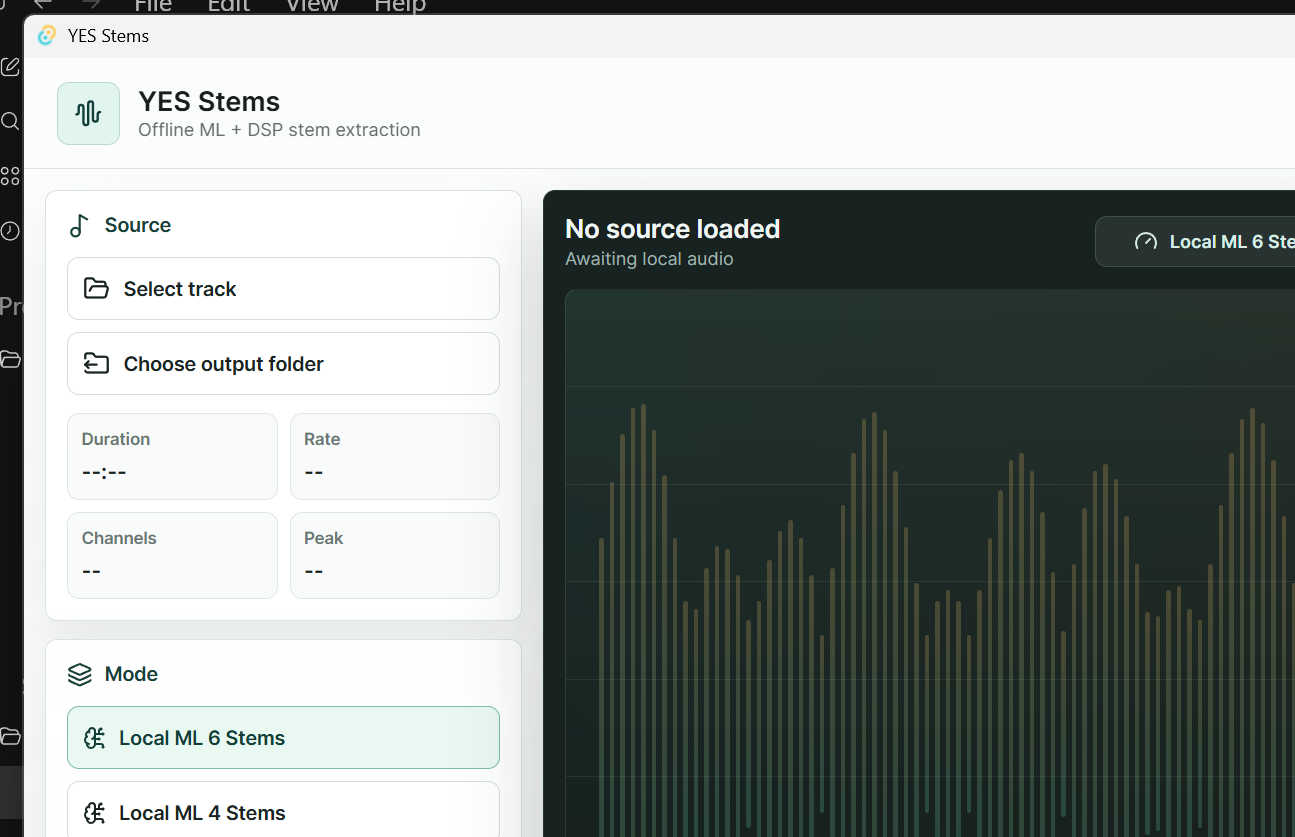
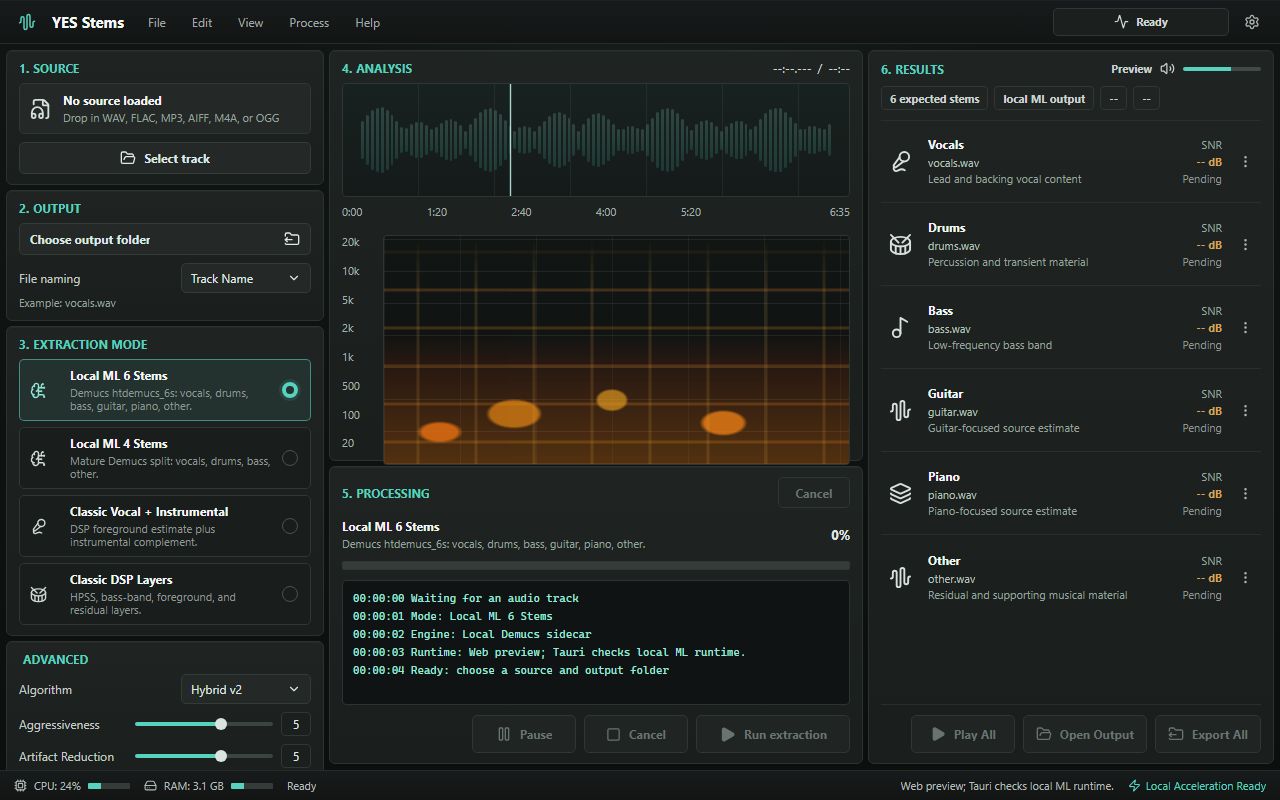
docs: refresh app screenshot

diff --git a/src/App.css b/src/App.css
@@ -173,8 +173,8 @@ p {
   min-height: 0;
   display: grid;
   grid-template-columns: 318px minmax(500px, 1fr) 406px;
-  gap: 6px;
-  padding: 7px;
+  gap: 5px;
+  padding: 6px;
 }
 
 .rack,
@@ -183,7 +183,7 @@ p {
   min-height: 0;
   display: flex;
   flex-direction: column;
-  gap: 6px;
+  gap: 5px;
 }
 
 .module {
@@ -203,7 +203,25 @@ p {
 .advanced-module,
 .results-module,
 .processing-module {
-  padding: 12px;
+  padding: 10px 12px;
+}
+
+.source-module {
+  flex: 0 0 126px;
+}
+
+.output-module {
+  flex: 0 0 116px;
+}
+
+.mode-module {
+  flex: 0 0 300px;
+}
+
+.advanced-module {
+  flex: 1 1 150px;
+  min-height: 150px;
+  overflow: hidden;
 }
 
 .analysis-module {
@@ -212,11 +230,11 @@ p {
   display: grid;
   grid-template-rows: auto 114px 22px minmax(0, 1fr);
   gap: 8px;
-  padding: 12px;
+  padding: 10px 12px 12px;
 }
 
 .processing-module {
-  flex: 0 0 306px;
+  flex: 0 0 298px;
   display: grid;
   grid-template-rows: auto auto 9px minmax(84px, 1fr) auto;
   gap: 10px;
@@ -251,13 +269,13 @@ p {
 }
 
 .source-file {
-  min-height: 46px;
+  min-height: 42px;
   display: grid;
   grid-template-columns: auto minmax(0, 1fr);
   gap: 11px;
   align-items: center;
-  margin-top: 12px;
-  padding: 10px;
+  margin-top: 8px;
+  padding: 8px 10px;
   color: #dfe8e4;
   border: 1px solid #303735;
   border-radius: 5px;
@@ -314,13 +332,13 @@ p {
 .field-button,
 .path-field {
   width: 100%;
-  min-height: 36px;
+  min-height: 32px;
   display: flex;
   align-items: center;
   justify-content: center;
   gap: 8px;
-  margin-top: 9px;
-  padding: 8px 10px;
+  margin-top: 8px;
+  padding: 7px 10px;
   font-size: 12px;
   line-height: 14px;
   font-weight: 650;
@@ -361,7 +379,7 @@ p {
   grid-template-columns: minmax(0, 1fr) auto;
   gap: 10px;
   align-items: center;
-  margin-top: 10px;
+  margin-top: 8px;
 }
 
 .file-naming-row span,
@@ -386,18 +404,18 @@ p {
 
 .mode-tabs {
   display: grid;
-  gap: 7px;
-  margin-top: 12px;
+  gap: 6px;
+  margin-top: 8px;
 }
 
 .mode-tabs button {
   position: relative;
-  min-height: 58px;
+  min-height: 48px;
   display: grid;
   grid-template-columns: 30px minmax(0, 1fr) 18px;
   gap: 10px;
   align-items: center;
-  padding: 10px;
+  padding: 8px 10px;
   text-align: left;
   border: 1px solid #303735;
   border-radius: 5px;
@@ -424,7 +442,7 @@ p {
   margin-top: 3px;
   color: #8d9894;
   font-size: 11px;
-  line-height: 14px;
+  line-height: 13px;
 }
 
 .mode-tabs i {
@@ -453,7 +471,7 @@ p {
 }
 
 .slider-row div {
-  width: 184px;
+  width: 176px;
   display: grid;
   grid-template-columns: minmax(0, 1fr) 30px;
   gap: 8px;

diff --git a/src/App.tsx b/src/App.tsx
@@ -728,7 +728,7 @@ function engineStatusText(mode: StemMode, status: LocalMlStatus | null) {
   }
 
   if (!hasTauriRuntime()) {
-    return "Web preview; local ML preflight runs inside the Tauri app.";
+    return "Web preview; Tauri checks local ML runtime.";
   }
 
   if (!status) {

diff --git a/README.md b/README.md
@@ -6,6 +6,10 @@ The first shipping target is a Tauri desktop workflow that can load a music
 track, run local ML or classic DSP extraction, and export WAV files without
 sending audio to a cloud service or frontier-model API.
 
+## Current UI
+
+![YES Stems desktop workspace](docs/screenshots/yes-stems-installed-app.png)
+
 ## Local Demucs Runtime
 
 The current dev runtime uses Demucs locally through a repo-local Python venv.
